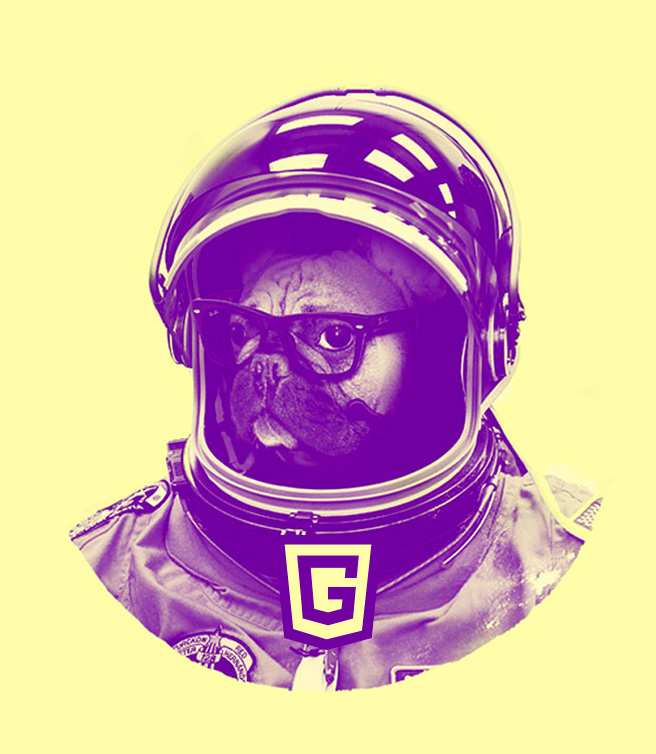
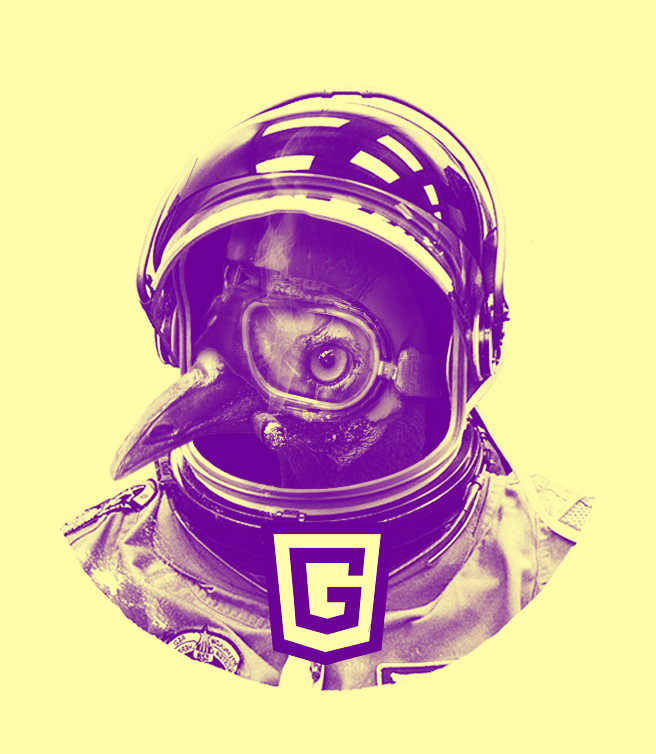
menu tweak, cassowary as main image

Changed region(s): [[0.0915, 0.0915, 0.9146, 0.9151]]

diff --git a/index.html b/index.html
@@ -111,20 +111,19 @@ layout: default
   </header>  
 
   <div class="content"> 
+    
     <ul class="large-list cols-2">
-      <li><a href="/guides/ccss">Constraint CSS</a></li>
-      <li><a href="/guides/vfl">Grid-flavored VFL</a></li>
-      <li><a href="/#rel_pos_size">Relative positioning & sizing</a></li>
+      <li><a href="/guides/ccss">CCSS</a>: property constraints</li>
+      <li><a href="/guides/vfl">VFL</a>: 1-D element alignment</li>
       <li><a href="/guides/ifelse">@if @else Blocks</a></li>
       <li><a href="/guides/ifelse">Per-Element Responsiveness</a></li>
       <li><a href="/guides/ccss">Custom Constraint Variables</a></li>
-      <li><a>Accelerated 3D transforms <span class="super">*</span></a></li>
+      <li><a>Accelerated 3D transforms<span class="super">*</span></a></li>
       <li><a href="/guides/ccss">New Pseudo Selectors</a></li>
       <li><a href="/guides/ccss">Nested Rules</a></li>
       <li><a>Respects Text Re-Flows</a></li>
-      <li><a href="/guides/ccss">(In)Equality Constraints</a></li>
       <li><a href="/guides/ccss">Constraint Strengths</a></li>
-      <li><a>Multi-threaded Web Workers <span class="super">*</span></a></li>
+      <li><a>Multi-threaded Web Workers<span class="super">*</span></a></li>
       <li><a>True Source Order Independence</a></li>
       <li><a>Works with Normal CSS</a></li>
     </ul>

diff --git a/style/styles.css b/style/styles.css
@@ -38,8 +38,9 @@ ul, menu, dir {
   margin: 0;
   padding: 0;
 }
-p a, .link {
+p a, .link, ul a {
   position: relative;
+  font-weight: bold;
 }
 p a::after, .link::after {
 opacity: 0;
@@ -202,6 +203,10 @@ button.inverse:hover {
   fill: #6f019e;
 }
 
+hr {
+  color:hsl(58, 100%, 85%);
+  size: 3px;
+}
 .content h2 {
   border-bottom: solid 3px hsl(58, 100%, 85%);
 }
